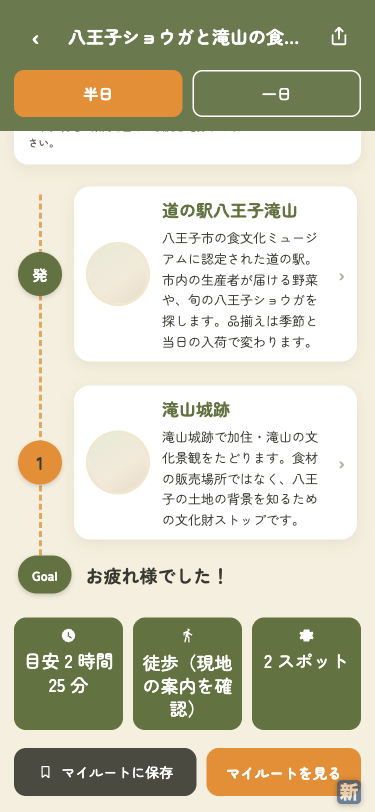
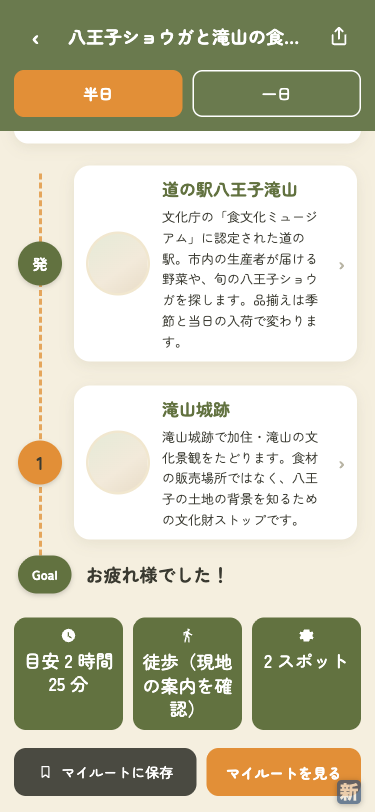
Correct Hachioji food culture recognition attribution

diff --git a/src/i18n/resources.ts b/src/i18n/resources.ts
@@ -741,7 +741,7 @@ export const strings = {
       '所要時間・滞在時間・徒歩時間は編集部の目安です。現地の案内と当日の状況を確認してください。',
     dataHachiojiRouteOperationalNote: '品揃えは季節と当日の入荷で変わります。現地の案内を確認してください。',
     dataHachiojiStopRoleMarketHalfDay:
-      '八王子市の食文化ミュージアムに認定された道の駅。市内の生産者が届ける野菜や、旬の八王子ショウガを探します。品揃えは季節と当日の入荷で変わります。',
+      '文化庁の「食文化ミュージアム」に認定された道の駅。市内の生産者が届ける野菜や、旬の八王子ショウガを探します。品揃えは季節と当日の入荷で変わります。',
     dataHachiojiStopRoleMarketFullDay:
       '直売所と地場食材の料理をゆっくり見て、八王子ショウガが入荷しているか現地で確認します。品揃えは季節と当日の入荷で変わります。',
     dataHachiojiStopRoleCastleHalfDay:
@@ -1594,7 +1594,7 @@ export const strings = {
       'Total, stay, and walking times are editorial estimates; check local guidance and conditions on the day.',
     dataHachiojiRouteOperationalNote: 'Stock changes by season and day; check current local guidance.',
     dataHachiojiStopRoleMarketHalfDay:
-      'Start at the city-recognized food culture museum and farm market. Look for Hachioji produce and seasonal ginger; stock changes with the season and day.',
+      "Start at the farm market of a roadside station recognized under the Agency for Cultural Affairs' Food Culture Museum program. Look for Hachioji produce and seasonal ginger; stock changes with the season and day.",
     dataHachiojiStopRoleMarketFullDay:
       'Take time with the farm market and local-food options, then check on site whether Hachioji ginger has arrived. Stock changes with the season and day.',
     dataHachiojiStopRoleCastleHalfDay:
@@ -2423,7 +2423,7 @@ export const strings = {
       '總時間、停留時間與步行時間為編輯部估算；請確認現地指引與當日狀況。',
     dataHachiojiRouteOperationalNote: '品項會隨季節與當日進貨變動；請確認現地指引。',
     dataHachiojiStopRoleMarketHalfDay:
-      '從獲認定為食文化博物館的道之驛與農產直賣所開始，尋找八王子農產與當季八王子薑；品項會隨季節與當日進貨變動。',
+      '從獲日本文化廳「食文化博物館」計畫認可的道之驛開始，尋找八王子農產與當季八王子薑；品項會隨季節與當日進貨變動。',
     dataHachiojiStopRoleMarketFullDay:
       '慢慢逛直賣所與在地食材料理，並在現場確認八王子薑是否到貨。品項會隨季節與當日進貨變動。',
     dataHachiojiStopRoleCastleHalfDay:

diff --git a/src/data/data-verification-evidence-manifest.ts b/src/data/data-verification-evidence-manifest.ts
@@ -135,6 +135,41 @@ const HACHIOJI_HALF_DAY_DETAIL_APP_EVIDENCE: readonly DataVerificationAppEvidenc
     viewport: { width: 375, height: 812 },
     note: '#349 half-day Route stats view at 375px documents the 145-minute editorial estimate and current travel-condition caveat. Captured through Ego-lite; its external browser widget may remain visible and is not app UI.',
   },
+  {
+    evidenceId: 'hachioji-route-half-day-stops-en-375',
+    claimIds: [
+      'route:hachioji-ginger-journey:half-day:stop_sequence',
+      'route:hachioji-ginger-journey:half-day:stop:hachioji-takiyama-roadside-station:identity',
+      'route:hachioji-ginger-journey:half-day:stop:hachioji-takiyama-castle:identity',
+      'route:hachioji-ginger-journey:half-day:step:hachioji-takiyama-roadside-station:guidance:en',
+    ],
+    entityId: 'hachioji-ginger-journey',
+    kind: 'app',
+    capturedAt: '2026-09-26',
+    path: 'docs/data-evidence/hachioji-ginger/route-half-day-stops-app-en-375.png',
+    locale: 'en',
+    viewport: { width: 375, height: 812 },
+    note: '#349 English half-day Route view shows both stop identities and the roadside-market guidance with Agency for Cultural Affairs attribution; lower summary stats are clipped. Captured through Ego-lite; its external browser widget may remain visible and is not app UI.',
+  },
+  {
+    evidenceId: 'hachioji-route-half-day-stops-zh-TW-375',
+    claimIds: [
+      'route:hachioji-ginger-journey:half-day:summary_time:zh-TW',
+      'route:hachioji-ginger-journey:half-day:summary_stop_count:zh-TW',
+      'route:hachioji-ginger-journey:half-day:stop_sequence',
+      'route:hachioji-ginger-journey:half-day:stop:hachioji-takiyama-roadside-station:identity',
+      'route:hachioji-ginger-journey:half-day:stop:hachioji-takiyama-castle:identity',
+      'route:hachioji-ginger-journey:half-day:step:hachioji-takiyama-roadside-station:guidance:zh-TW',
+      'route:hachioji-ginger-journey:half-day:step:hachioji-takiyama-castle:guidance:zh-TW',
+    ],
+    entityId: 'hachioji-ginger-journey',
+    kind: 'app',
+    capturedAt: '2026-09-26',
+    path: 'docs/data-evidence/hachioji-ginger/route-half-day-stops-app-zh-TW-375.png',
+    locale: 'zh-TW',
+    viewport: { width: 375, height: 812 },
+    note: '#349 Traditional Chinese half-day Route view shows both stops, the editorial duration/count, and both localized stop descriptions with cultural-agency attribution. Captured through Ego-lite; its external browser widget may remain visible and is not app UI.',
+  },
 ];
 
 const HACHIOJI_FULL_DAY_DETAIL_APP_EVIDENCE: readonly DataVerificationAppEvidence[] = [

diff --git a/src/features/netlify-parity/content.test.ts b/src/features/netlify-parity/content.test.ts
@@ -3,6 +3,8 @@ import { fileURLToPath } from 'node:url';
 import { describe, expect, it } from 'vitest';
 import { PLACES } from '../../data/seed-places';
 import { isFixedPlace } from '../../data/model';
+import { MODEL_ROUTES } from '../../data/seed-routes';
+import { strings } from '../../i18n/resources';
 import {
   currentJourneys,
   currentSpots,
@@ -136,6 +138,24 @@ describe('Netlify parity presentation content', () => {
     expect(journey).not.toHaveProperty('matchPercent');
     expect(journey?.imageAssetId).toBeUndefined();
     expect(journey?.heroAssetId).toBeUndefined();
+
+    const canonicalMarketRole = MODEL_ROUTES.find((route) => route.id === 'hachioji-ginger-journey')!
+      .variants['half-day'].steps[0]!;
+    expect(canonicalMarketRole.placeId).toBe('hachioji-takiyama-roadside-station');
+    expect(canonicalMarketRole.roleJa).toContain('文化庁');
+    expect(canonicalMarketRole.roleJa).not.toContain('八王子市の食文化ミュージアム');
+    expect(canonicalMarketRole.roleEn).toContain('Agency for Cultural Affairs');
+    expect(canonicalMarketRole.roleEn).not.toContain('city-recognized');
+    expect(strings.ja.dataHachiojiStopRoleMarketHalfDay).toBe(canonicalMarketRole.roleJa);
+    expect(strings.en.dataHachiojiStopRoleMarketHalfDay).toBe(canonicalMarketRole.roleEn);
+    expect(strings['zh-TW'].dataHachiojiStopRoleMarketHalfDay).toContain('日本文化廳');
+    expect(strings['zh-TW'].dataHachiojiStopRoleMarketHalfDay).not.toContain('八王子市');
+    expect(routeStepText['demo-tokyo-hachioji-ginger:half-day'][0]?.description.en)
+      .toBe(canonicalMarketRole.roleEn);
+    expect(routeStepText['demo-tokyo-hachioji-ginger:half-day'][0]?.description.ja)
+      .toBe(canonicalMarketRole.roleJa);
+    expect(routeStepText['demo-tokyo-hachioji-ginger:half-day'][0]?.description['zh-TW'])
+      .toBe(strings['zh-TW'].dataHachiojiStopRoleMarketHalfDay);
     expect(Object.keys(currentSpots)).toContain('hachioji-takiyama-roadside-station');
     expect(Object.keys(currentSpots)).toContain('hachioji-takiyama-castle');
 

diff --git a/src/data/seed-routes.ts b/src/data/seed-routes.ts
@@ -724,9 +724,9 @@ export const MODEL_ROUTES: ModelRoute[] = [
             stepNumber: 1,
             stayMinutes: 75,
             roleJa:
-              '八王子市の食文化ミュージアムに認定された道の駅。市内の生産者が届ける野菜や、旬の八王子ショウガを探します。品揃えは季節と当日の入荷で変わります。',
+              '文化庁の「食文化ミュージアム」に認定された道の駅。市内の生産者が届ける野菜や、旬の八王子ショウガを探します。品揃えは季節と当日の入荷で変わります。',
             roleEn:
-              'Start at the city-recognized food culture museum and farm market. Look for Hachioji produce and seasonal ginger; stock changes with the season and day.',
+              "Start at the farm market of a roadside station recognized under the Agency for Cultural Affairs' Food Culture Museum program. Look for Hachioji produce and seasonal ginger; stock changes with the season and day.",
           },
           {
             placeId: 'hachioji-takiyama-castle',

diff --git a/docs/data-verification-ledger.md b/docs/data-verification-ledger.md
@@ -1195,22 +1195,22 @@ _None._
 | `route:hachioji-ginger-journey:half-day:route_identity` | Route / hachioji-ginger-journey / 八王子ショウガと滝山の食文化をたどる旅 | `route_identity` — Route identity | hachioji-ginger-journey | hachioji-ginger-journey | — | — | `editorial` | `needs_confirmation` | `match` | [編集部（八王子ショウガと滝山の食文化）](https://www.tokyo-ja.or.jp/farm/edo/41.php) | — | 2026-09-26 | — | — | no | Route | `src/data/seed-routes.ts` | `src/features/netlify-parity/factual-presentation.ts` | — | #349 | — | Stable route ID mapping. |
 | `route:hachioji-ginger-journey:half-day:step:hachioji-takiyama-castle:guidance:en` | Route / hachioji-ginger-journey / 八王子ショウガと滝山の食文化をたどる旅 | `step:hachioji-takiyama-castle:guidance:en` — Per-step guidance (hachioji-takiyama-castle, en) | — | Trace the cultural landscape of Kazumi and Takiyama at the castle ruins. This is a heritage context stop, not a place to buy food. | — | — | `demo` | `demo` | `none` | — | — | — | — | — | no | Route | `—` | `src/features/netlify-parity/factual-presentation.ts` | — | #349 | — | Localized presentation guidance is inventoried without inferring factual truth or a canonical translation. |
 | `route:hachioji-ginger-journey:half-day:step:hachioji-takiyama-castle:guidance:ja` | Route / hachioji-ginger-journey / 八王子ショウガと滝山の食文化をたどる旅 | `step:hachioji-takiyama-castle:guidance:ja` — Per-step guidance (hachioji-takiyama-castle, ja) | 滝山城跡で加住・滝山の文化景観をたどります。食材の販売場所ではなく、八王子の土地の背景を知るための文化財ストップです。 | 滝山城跡で加住・滝山の文化景観をたどります。食材の販売場所ではなく、八王子の土地の背景を知るための文化財ストップです。 | — | — | `editorial` | `needs_confirmation` | `match` | [編集部（八王子ショウガと滝山の食文化）](https://www.tokyo-ja.or.jp/farm/edo/41.php) | — | 2026-09-26 | — | — | no | Route | `src/data/seed-routes.ts` | `src/features/netlify-parity/factual-presentation.ts` | — | #349 | [app · ja · 375px](data-evidence/hachioji-ginger/route-half-day-stops-app-ja-375.png) | Raw wording comparison only. |
-| `route:hachioji-ginger-journey:half-day:step:hachioji-takiyama-castle:guidance:zh-TW` | Route / hachioji-ginger-journey / 八王子ショウガと滝山の食文化をたどる旅 | `step:hachioji-takiyama-castle:guidance:zh-TW` — Per-step guidance (hachioji-takiyama-castle, zh-TW) | — | 在滝山城跡追尋加住・滝山的文化景觀。這裡不是購買食材的地方，而是理解八王子土地背景的文化財景點。 | — | — | `demo` | `demo` | `none` | — | — | — | — | — | no | Route | `—` | `src/features/netlify-parity/factual-presentation.ts` | — | #349 | — | Localized presentation guidance is inventoried without inferring factual truth or a canonical translation. |
+| `route:hachioji-ginger-journey:half-day:step:hachioji-takiyama-castle:guidance:zh-TW` | Route / hachioji-ginger-journey / 八王子ショウガと滝山の食文化をたどる旅 | `step:hachioji-takiyama-castle:guidance:zh-TW` — Per-step guidance (hachioji-takiyama-castle, zh-TW) | — | 在滝山城跡追尋加住・滝山的文化景觀。這裡不是購買食材的地方，而是理解八王子土地背景的文化財景點。 | — | — | `demo` | `demo` | `none` | — | — | — | — | — | no | Route | `—` | `src/features/netlify-parity/factual-presentation.ts` | — | #349 | [app · zh-TW · 375px](data-evidence/hachioji-ginger/route-half-day-stops-app-zh-TW-375.png) | Localized presentation guidance is inventoried without inferring factual truth or a canonical translation. |
 | `route:hachioji-ginger-journey:half-day:step:hachioji-takiyama-castle:role` | Route / hachioji-ginger-journey / 八王子ショウガと滝山の食文化をたどる旅 | `step:hachioji-takiyama-castle:role` — Stop role (hachioji-takiyama-castle) | 滝山城跡で加住・滝山の文化景観をたどります。食材の販売場所ではなく、八王子の土地の背景を知るための文化財ストップです。 | — | — | — | `editorial` | `needs_confirmation` | `none` | [編集部（八王子ショウガと滝山の食文化）](https://www.tokyo-ja.or.jp/farm/edo/41.php) | — | 2026-09-26 | — | — | no | Route | `src/data/seed-routes.ts` | — | — | #129, #133, #333 | — | Editorial itinerary wording. |
-| `route:hachioji-ginger-journey:half-day:step:hachioji-takiyama-roadside-station:guidance:en` | Route / hachioji-ginger-journey / 八王子ショウガと滝山の食文化をたどる旅 | `step:hachioji-takiyama-roadside-station:guidance:en` — Per-step guidance (hachioji-takiyama-roadside-station, en) | — | Start at the city-recognized food culture museum and farm market. Look for Hachioji produce and seasonal ginger; stock changes with the season and day. | — | — | `demo` | `demo` | `none` | — | — | — | — | — | no | Route | `—` | `src/features/netlify-parity/factual-presentation.ts` | — | #349 | — | Localized presentation guidance is inventoried without inferring factual truth or a canonical translation. |
-| `route:hachioji-ginger-journey:half-day:step:hachioji-takiyama-roadside-station:guidance:ja` | Route / hachioji-ginger-journey / 八王子ショウガと滝山の食文化をたどる旅 | `step:hachioji-takiyama-roadside-station:guidance:ja` — Per-step guidance (hachioji-takiyama-roadside-station, ja) | 八王子市の食文化ミュージアムに認定された道の駅。市内の生産者が届ける野菜や、旬の八王子ショウガを探します。品揃えは季節と当日の入荷で変わります。 | 八王子市の食文化ミュージアムに認定された道の駅。市内の生産者が届ける野菜や、旬の八王子ショウガを探します。品揃えは季節と当日の入荷で変わります。 | — | — | `editorial` | `needs_confirmation` | `match` | [編集部（八王子ショウガと滝山の食文化）](https://www.tokyo-ja.or.jp/farm/edo/41.php) | — | 2026-09-26 | — | — | no | Route | `src/data/seed-routes.ts` | `src/features/netlify-parity/factual-presentation.ts` | — | #349 | [app · ja · 375px](data-evidence/hachioji-ginger/route-half-day-stops-app-ja-375.png) | Raw wording comparison only. |
-| `route:hachioji-ginger-journey:half-day:step:hachioji-takiyama-roadside-station:guidance:zh-TW` | Route / hachioji-ginger-journey / 八王子ショウガと滝山の食文化をたどる旅 | `step:hachioji-takiyama-roadside-station:guidance:zh-TW` — Per-step guidance (hachioji-takiyama-roadside-station, zh-TW) | — | 從獲認定為食文化博物館的道之驛與農產直賣所開始，尋找八王子農產與當季八王子薑；品項會隨季節與當日進貨變動。 | — | — | `demo` | `demo` | `none` | — | — | — | — | — | no | Route | `—` | `src/features/netlify-parity/factual-presentation.ts` | — | #349 | — | Localized presentation guidance is inventoried without inferring factual truth or a canonical translation. |
-| `route:hachioji-ginger-journey:half-day:step:hachioji-takiyama-roadside-station:role` | Route / hachioji-ginger-journey / 八王子ショウガと滝山の食文化をたどる旅 | `step:hachioji-takiyama-roadside-station:role` — Stop role (hachioji-takiyama-roadside-station) | 八王子市の食文化ミュージアムに認定された道の駅。市内の生産者が届ける野菜や、旬の八王子ショウガを探します。品揃えは季節と当日の入荷で変わります。 | — | — | — | `editorial` | `needs_confirmation` | `none` | [編集部（八王子ショウガと滝山の食文化）](https://www.tokyo-ja.or.jp/farm/edo/41.php) | — | 2026-09-26 | — | — | no | Route | `src/data/seed-routes.ts` | — | — | #129, #133, #333 | — | Editorial itinerary wording. |
-| `route:hachioji-ginger-journey:half-day:stop:hachioji-takiyama-castle:identity` | Route / hachioji-ginger-journey / 八王子ショウガと滝山の食文化をたどる旅 | `stop:hachioji-takiyama-castle:identity` — Physical stop identity (hachioji-takiyama-castle) | hachioji-takiyama-castle | hachioji-takiyama-castle | — | — | `editorial` | `needs_confirmation` | `match` | [編集部（八王子ショウガと滝山の食文化）](https://www.tokyo-ja.or.jp/farm/edo/41.php) | — | 2026-09-26 | — | — | no | Route | `src/data/seed-routes.ts` | `src/features/netlify-parity/factual-presentation.ts` | — | #349 | [app · ja · 375px](data-evidence/hachioji-ginger/route-half-day-stops-app-ja-375.png) | Stable stop-ID comparison. |
-| `route:hachioji-ginger-journey:half-day:stop:hachioji-takiyama-roadside-station:identity` | Route / hachioji-ginger-journey / 八王子ショウガと滝山の食文化をたどる旅 | `stop:hachioji-takiyama-roadside-station:identity` — Physical stop identity (hachioji-takiyama-roadside-station) | hachioji-takiyama-roadside-station | hachioji-takiyama-roadside-station | — | — | `editorial` | `needs_confirmation` | `match` | [編集部（八王子ショウガと滝山の食文化）](https://www.tokyo-ja.or.jp/farm/edo/41.php) | — | 2026-09-26 | — | — | no | Route | `src/data/seed-routes.ts` | `src/features/netlify-parity/factual-presentation.ts` | — | #349 | [app · ja · 375px](data-evidence/hachioji-ginger/route-half-day-stops-app-ja-375.png) | Stable stop-ID comparison. |
+| `route:hachioji-ginger-journey:half-day:step:hachioji-takiyama-roadside-station:guidance:en` | Route / hachioji-ginger-journey / 八王子ショウガと滝山の食文化をたどる旅 | `step:hachioji-takiyama-roadside-station:guidance:en` — Per-step guidance (hachioji-takiyama-roadside-station, en) | — | Start at the farm market of a roadside station recognized under the Agency for Cultural Affairs' Food Culture Museum program. Look for Hachioji produce and seasonal ginger; stock changes with the season and day. | — | — | `demo` | `demo` | `none` | — | — | — | — | — | no | Route | `—` | `src/features/netlify-parity/factual-presentation.ts` | — | #349 | [app · en · 375px](data-evidence/hachioji-ginger/route-half-day-stops-app-en-375.png) | Localized presentation guidance is inventoried without inferring factual truth or a canonical translation. |
+| `route:hachioji-ginger-journey:half-day:step:hachioji-takiyama-roadside-station:guidance:ja` | Route / hachioji-ginger-journey / 八王子ショウガと滝山の食文化をたどる旅 | `step:hachioji-takiyama-roadside-station:guidance:ja` — Per-step guidance (hachioji-takiyama-roadside-station, ja) | 文化庁の「食文化ミュージアム」に認定された道の駅。市内の生産者が届ける野菜や、旬の八王子ショウガを探します。品揃えは季節と当日の入荷で変わります。 | 文化庁の「食文化ミュージアム」に認定された道の駅。市内の生産者が届ける野菜や、旬の八王子ショウガを探します。品揃えは季節と当日の入荷で変わります。 | — | — | `editorial` | `needs_confirmation` | `match` | [編集部（八王子ショウガと滝山の食文化）](https://www.tokyo-ja.or.jp/farm/edo/41.php) | — | 2026-09-26 | — | — | no | Route | `src/data/seed-routes.ts` | `src/features/netlify-parity/factual-presentation.ts` | — | #349 | [app · ja · 375px](data-evidence/hachioji-ginger/route-half-day-stops-app-ja-375.png) | Raw wording comparison only. |
+| `route:hachioji-ginger-journey:half-day:step:hachioji-takiyama-roadside-station:guidance:zh-TW` | Route / hachioji-ginger-journey / 八王子ショウガと滝山の食文化をたどる旅 | `step:hachioji-takiyama-roadside-station:guidance:zh-TW` — Per-step guidance (hachioji-takiyama-roadside-station, zh-TW) | — | 從獲日本文化廳「食文化博物館」計畫認可的道之驛開始，尋找八王子農產與當季八王子薑；品項會隨季節與當日進貨變動。 | — | — | `demo` | `demo` | `none` | — | — | — | — | — | no | Route | `—` | `src/features/netlify-parity/factual-presentation.ts` | — | #349 | [app · zh-TW · 375px](data-evidence/hachioji-ginger/route-half-day-stops-app-zh-TW-375.png) | Localized presentation guidance is inventoried without inferring factual truth or a canonical translation. |
+| `route:hachioji-ginger-journey:half-day:step:hachioji-takiyama-roadside-station:role` | Route / hachioji-ginger-journey / 八王子ショウガと滝山の食文化をたどる旅 | `step:hachioji-takiyama-roadside-station:role` — Stop role (hachioji-takiyama-roadside-station) | 文化庁の「食文化ミュージアム」に認定された道の駅。市内の生産者が届ける野菜や、旬の八王子ショウガを探します。品揃えは季節と当日の入荷で変わります。 | — | — | — | `editorial` | `needs_confirmation` | `none` | [編集部（八王子ショウガと滝山の食文化）](https://www.tokyo-ja.or.jp/farm/edo/41.php) | — | 2026-09-26 | — | — | no | Route | `src/data/seed-routes.ts` | — | — | #129, #133, #333 | — | Editorial itinerary wording. |
+| `route:hachioji-ginger-journey:half-day:stop:hachioji-takiyama-castle:identity` | Route / hachioji-ginger-journey / 八王子ショウガと滝山の食文化をたどる旅 | `stop:hachioji-takiyama-castle:identity` — Physical stop identity (hachioji-takiyama-castle) | hachioji-takiyama-castle | hachioji-takiyama-castle | — | — | `editorial` | `needs_confirmation` | `match` | [編集部（八王子ショウガと滝山の食文化）](https://www.tokyo-ja.or.jp/farm/edo/41.php) | — | 2026-09-26 | — | — | no | Route | `src/data/seed-routes.ts` | `src/features/netlify-parity/factual-presentation.ts` | — | #349 | [app · en · 375px](data-evidence/hachioji-ginger/route-half-day-stops-app-en-375.png)<br>[app · ja · 375px](data-evidence/hachioji-ginger/route-half-day-stops-app-ja-375.png)<br>[app · zh-TW · 375px](data-evidence/hachioji-ginger/route-half-day-stops-app-zh-TW-375.png) | Stable stop-ID comparison. |
+| `route:hachioji-ginger-journey:half-day:stop:hachioji-takiyama-roadside-station:identity` | Route / hachioji-ginger-journey / 八王子ショウガと滝山の食文化をたどる旅 | `stop:hachioji-takiyama-roadside-station:identity` — Physical stop identity (hachioji-takiyama-roadside-station) | hachioji-takiyama-roadside-station | hachioji-takiyama-roadside-station | — | — | `editorial` | `needs_confirmation` | `match` | [編集部（八王子ショウガと滝山の食文化）](https://www.tokyo-ja.or.jp/farm/edo/41.php) | — | 2026-09-26 | — | — | no | Route | `src/data/seed-routes.ts` | `src/features/netlify-parity/factual-presentation.ts` | — | #349 | [app · en · 375px](data-evidence/hachioji-ginger/route-half-day-stops-app-en-375.png)<br>[app · ja · 375px](data-evidence/hachioji-ginger/route-half-day-stops-app-ja-375.png)<br>[app · zh-TW · 375px](data-evidence/hachioji-ginger/route-half-day-stops-app-zh-TW-375.png) | Stable stop-ID comparison. |
 | `route:hachioji-ginger-journey:half-day:stop_count` | Route / hachioji-ginger-journey / 八王子ショウガと滝山の食文化をたどる旅 | `stop_count` — Stop count | 2 | 2 | — | — | `editorial` | `needs_confirmation` | `match` | [編集部（八王子ショウガと滝山の食文化）](https://www.tokyo-ja.or.jp/farm/edo/41.php) | — | 2026-09-26 | — | — | no | Route | `src/data/seed-routes.ts` | `src/features/netlify-parity/factual-presentation.ts` | — | #349 | — | Raw canonical/presentation comparison; values are not silently normalized. |
-| `route:hachioji-ginger-journey:half-day:stop_sequence` | Route / hachioji-ginger-journey / 八王子ショウガと滝山の食文化をたどる旅 | `stop_sequence` — Physical stop sequence | hachioji-takiyama-roadside-station → hachioji-takiyama-castle | hachioji-takiyama-roadside-station → hachioji-takiyama-castle | — | — | `editorial` | `needs_confirmation` | `match` | [編集部（八王子ショウガと滝山の食文化）](https://www.tokyo-ja.or.jp/farm/edo/41.php) | — | 2026-09-26 | — | — | no | Route | `src/data/seed-routes.ts` | `src/features/netlify-parity/factual-presentation.ts` | — | #349 | [app · ja · 375px](data-evidence/hachioji-ginger/route-half-day-stops-app-ja-375.png) | Raw canonical/presentation comparison; values are not silently normalized. |
+| `route:hachioji-ginger-journey:half-day:stop_sequence` | Route / hachioji-ginger-journey / 八王子ショウガと滝山の食文化をたどる旅 | `stop_sequence` — Physical stop sequence | hachioji-takiyama-roadside-station → hachioji-takiyama-castle | hachioji-takiyama-roadside-station → hachioji-takiyama-castle | — | — | `editorial` | `needs_confirmation` | `match` | [編集部（八王子ショウガと滝山の食文化）](https://www.tokyo-ja.or.jp/farm/edo/41.php) | — | 2026-09-26 | — | — | no | Route | `src/data/seed-routes.ts` | `src/features/netlify-parity/factual-presentation.ts` | — | #349 | [app · en · 375px](data-evidence/hachioji-ginger/route-half-day-stops-app-en-375.png)<br>[app · ja · 375px](data-evidence/hachioji-ginger/route-half-day-stops-app-ja-375.png)<br>[app · zh-TW · 375px](data-evidence/hachioji-ginger/route-half-day-stops-app-zh-TW-375.png) | Raw canonical/presentation comparison; values are not silently normalized. |
 | `route:hachioji-ginger-journey:half-day:summary_stop_count:en` | Route / hachioji-ginger-journey / 八王子ショウガと滝山の食文化をたどる旅 | `summary_stop_count:en` — Visible Route spot-count summary (en) | — | 2 spots | — | — | `demo` | `demo` | `none` | — | — | — | — | — | no | Route | `—` | `src/features/netlify-parity/factual-presentation.ts` | — | #349 | — | Derived by routeVariantSummary from the same displayed variant.durationMinutes and variant.steps rendered by RouteScreen. Duration is an editorial local estimate excluding travel from the origin; count includes the starting station. No real-world verification is inferred. |
 | `route:hachioji-ginger-journey:half-day:summary_stop_count:ja` | Route / hachioji-ginger-journey / 八王子ショウガと滝山の食文化をたどる旅 | `summary_stop_count:ja` — Visible Route spot-count summary (ja) | — | 2 スポット | — | — | `demo` | `demo` | `none` | — | — | — | — | — | no | Route | `—` | `src/features/netlify-parity/factual-presentation.ts` | — | #349 | [app · ja · 375px](data-evidence/hachioji-ginger/route-half-day-stats-app-ja-375.png)<br>[app · ja · 375px](data-evidence/hachioji-ginger/route-half-day-stops-app-ja-375.png) | Derived by routeVariantSummary from the same displayed variant.durationMinutes and variant.steps rendered by RouteScreen. Duration is an editorial local estimate excluding travel from the origin; count includes the starting station. No real-world verification is inferred. |
-| `route:hachioji-ginger-journey:half-day:summary_stop_count:zh-TW` | Route / hachioji-ginger-journey / 八王子ショウガと滝山の食文化をたどる旅 | `summary_stop_count:zh-TW` — Visible Route spot-count summary (zh-TW) | — | 2 個景點 | — | — | `demo` | `demo` | `none` | — | — | — | — | — | no | Route | `—` | `src/features/netlify-parity/factual-presentation.ts` | — | #349 | — | Derived by routeVariantSummary from the same displayed variant.durationMinutes and variant.steps rendered by RouteScreen. Duration is an editorial local estimate excluding travel from the origin; count includes the starting station. No real-world verification is inferred. |
+| `route:hachioji-ginger-journey:half-day:summary_stop_count:zh-TW` | Route / hachioji-ginger-journey / 八王子ショウガと滝山の食文化をたどる旅 | `summary_stop_count:zh-TW` — Visible Route spot-count summary (zh-TW) | — | 2 個景點 | — | — | `demo` | `demo` | `none` | — | — | — | — | — | no | Route | `—` | `src/features/netlify-parity/factual-presentation.ts` | — | #349 | [app · zh-TW · 375px](data-evidence/hachioji-ginger/route-half-day-stops-app-zh-TW-375.png) | Derived by routeVariantSummary from the same displayed variant.durationMinutes and variant.steps rendered by RouteScreen. Duration is an editorial local estimate excluding travel from the origin; count includes the starting station. No real-world verification is inferred. |
 | `route:hachioji-ginger-journey:half-day:summary_time:en` | Route / hachioji-ginger-journey / 八王子ショウガと滝山の食文化をたどる旅 | `summary_time:en` — Visible Route duration summary (en) | — | Est. 2 hr 25 min | — | — | `demo` | `demo` | `none` | — | — | — | — | — | yes — Visible presentation summary; confirm current travel conditions. | Route | `—` | `src/features/netlify-parity/factual-presentation.ts` | — | #349 | — | Derived by routeVariantSummary from the same displayed variant.durationMinutes and variant.steps rendered by RouteScreen. Duration is an editorial local estimate excluding travel from the origin; count includes the starting station. No real-world verification is inferred. |
 | `route:hachioji-ginger-journey:half-day:summary_time:ja` | Route / hachioji-ginger-journey / 八王子ショウガと滝山の食文化をたどる旅 | `summary_time:ja` — Visible Route duration summary (ja) | — | 目安 2 時間 25 分 | — | — | `demo` | `demo` | `none` | — | — | — | — | — | yes — Visible presentation summary; confirm current travel conditions. | Route | `—` | `src/features/netlify-parity/factual-presentation.ts` | — | #349 | [app · ja · 375px](data-evidence/hachioji-ginger/route-half-day-stats-app-ja-375.png)<br>[app · ja · 375px](data-evidence/hachioji-ginger/route-half-day-stops-app-ja-375.png) | Derived by routeVariantSummary from the same displayed variant.durationMinutes and variant.steps rendered by RouteScreen. Duration is an editorial local estimate excluding travel from the origin; count includes the starting station. No real-world verification is inferred. |
-| `route:hachioji-ginger-journey:half-day:summary_time:zh-TW` | Route / hachioji-ginger-journey / 八王子ショウガと滝山の食文化をたどる旅 | `summary_time:zh-TW` — Visible Route duration summary (zh-TW) | — | 參考 2 小時 25 分鐘 | — | — | `demo` | `demo` | `none` | — | — | — | — | — | yes — Visible presentation summary; confirm current travel conditions. | Route | `—` | `src/features/netlify-parity/factual-presentation.ts` | — | #349 | — | Derived by routeVariantSummary from the same displayed variant.durationMinutes and variant.steps rendered by RouteScreen. Duration is an editorial local estimate excluding travel from the origin; count includes the starting station. No real-world verification is inferred. |
+| `route:hachioji-ginger-journey:half-day:summary_time:zh-TW` | Route / hachioji-ginger-journey / 八王子ショウガと滝山の食文化をたどる旅 | `summary_time:zh-TW` — Visible Route duration summary (zh-TW) | — | 參考 2 小時 25 分鐘 | — | — | `demo` | `demo` | `none` | — | — | — | — | — | yes — Visible presentation summary; confirm current travel conditions. | Route | `—` | `src/features/netlify-parity/factual-presentation.ts` | — | #349 | [app · zh-TW · 375px](data-evidence/hachioji-ginger/route-half-day-stops-app-zh-TW-375.png) | Derived by routeVariantSummary from the same displayed variant.durationMinutes and variant.steps rendered by RouteScreen. Duration is an editorial local estimate excluding travel from the origin; count includes the starting station. No real-world verification is inferred. |
 | `route:hachioji-ginger-journey:half-day:transport_summary` | Route / hachioji-ginger-journey / 八王子ショウガと滝山の食文化をたどる旅 | `transport_summary` — Transport summary | 徒歩（現地の案内を確認） | — | — | — | `editorial` | `needs_confirmation` | `none` | [編集部（八王子ショウガと滝山の食文化）](https://www.tokyo-ja.or.jp/farm/edo/41.php) | — | 2026-09-26 | — | — | yes — Editorial estimate; confirm current transport conditions. | Route | `src/data/seed-routes.ts` | — | — | #129, #133, #333 | [app · ja · 375px](data-evidence/hachioji-ginger/route-half-day-stops-app-ja-375.png) | Route structure is editorial guidance, not a verified schedule. |
 | `route:hachioji-ginger-journey:mogu.factual.origin-access:en` | Route / hachioji-ginger-journey / 八王子ショウガと滝山の食文化をたどる旅 | `mogu.factual.origin-access:en` — MOGU origin access (en) | JR・京王八王子駅からひよどり山トンネル経由の戸吹方面行きバスに乗り、「道の駅八王子滝山入口」下車、徒歩約3分。バス時刻は利用前に確認してください。 | From JR or Keio Hachioji Station, take a bus via the Hiyodoriyama Tunnel toward Tobuki, get off at Michi-no-Eki Hachioji Takiyama Iriguchi, then walk about 3 minutes. Check current bus times before travel. | — | — | `editorial` | `needs_confirmation` | `mismatch` | [道の駅八王子滝山（公式）](https://www.michinoeki-hachioji.net/) | — | 2026-09-26 | — | — | yes — Visible station access can change; retain the exact current SpotDetail source and confirmation caveat. | MOGU | `src/data/seed-routes.ts` | `src/features/netlify-parity/factual-presentation.ts` | — | #349 | [app · en · 375px](data-evidence/hachioji-ginger/mogu-app-en-375.png) | The MOGU card access value is mapped to the representative SpotDetail field; route-level source order is not used as provenance. |
 | `route:hachioji-ginger-journey:mogu.factual.origin-access:ja` | Route / hachioji-ginger-journey / 八王子ショウガと滝山の食文化をたどる旅 | `mogu.factual.origin-access:ja` — MOGU origin access (ja) | JR・京王八王子駅からひよどり山トンネル経由の戸吹方面行きバスに乗り、「道の駅八王子滝山入口」下車、徒歩約3分。バス時刻は利用前に確認してください。 | JR・京王八王子駅からひよどり山トンネル経由の戸吹方面行きバスに乗り、「道の駅八王子滝山入口」下車、徒歩約3分。バス時刻は利用前に確認してください。 | — | — | `editorial` | `needs_confirmation` | `match` | [道の駅八王子滝山（公式）](https://www.michinoeki-hachioji.net/) | — | 2026-09-26 | — | — | yes — Visible station access can change; retain the exact current SpotDetail source and confirmation caveat. | MOGU | `src/data/seed-routes.ts` | `src/features/netlify-parity/factual-presentation.ts` | — | #349 | [app · ja · 375px](data-evidence/hachioji-ginger/mogu-app-ja-375.png) | The MOGU card access value is mapped to the representative SpotDetail field; route-level source order is not used as provenance. |
